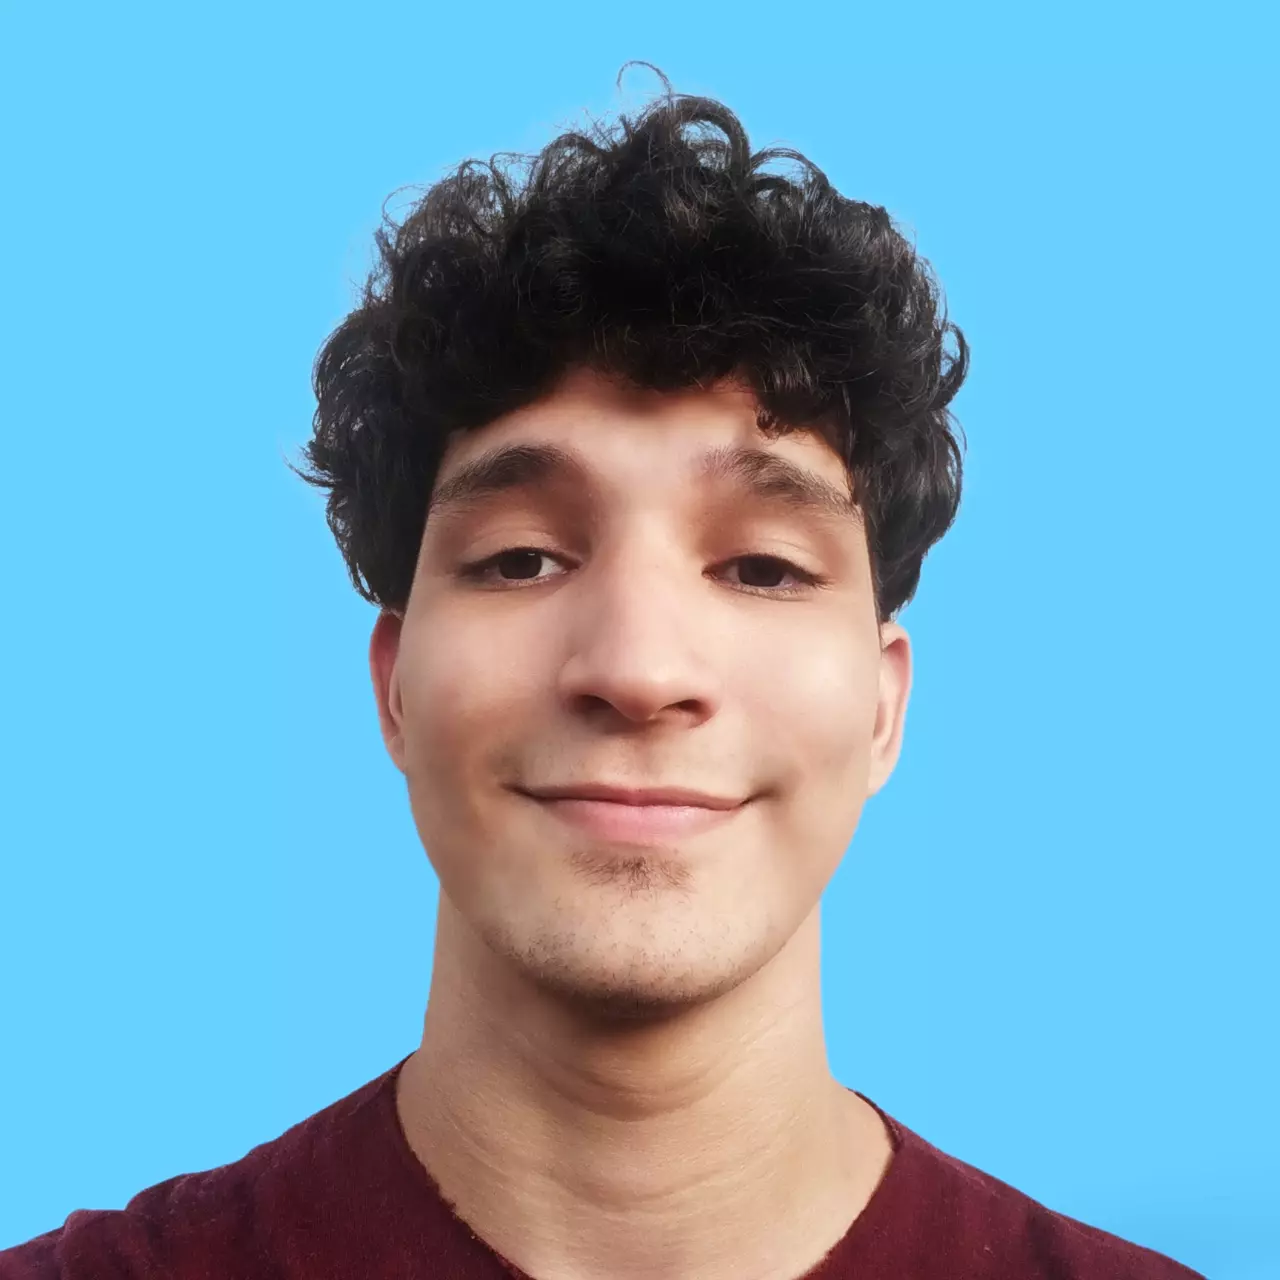
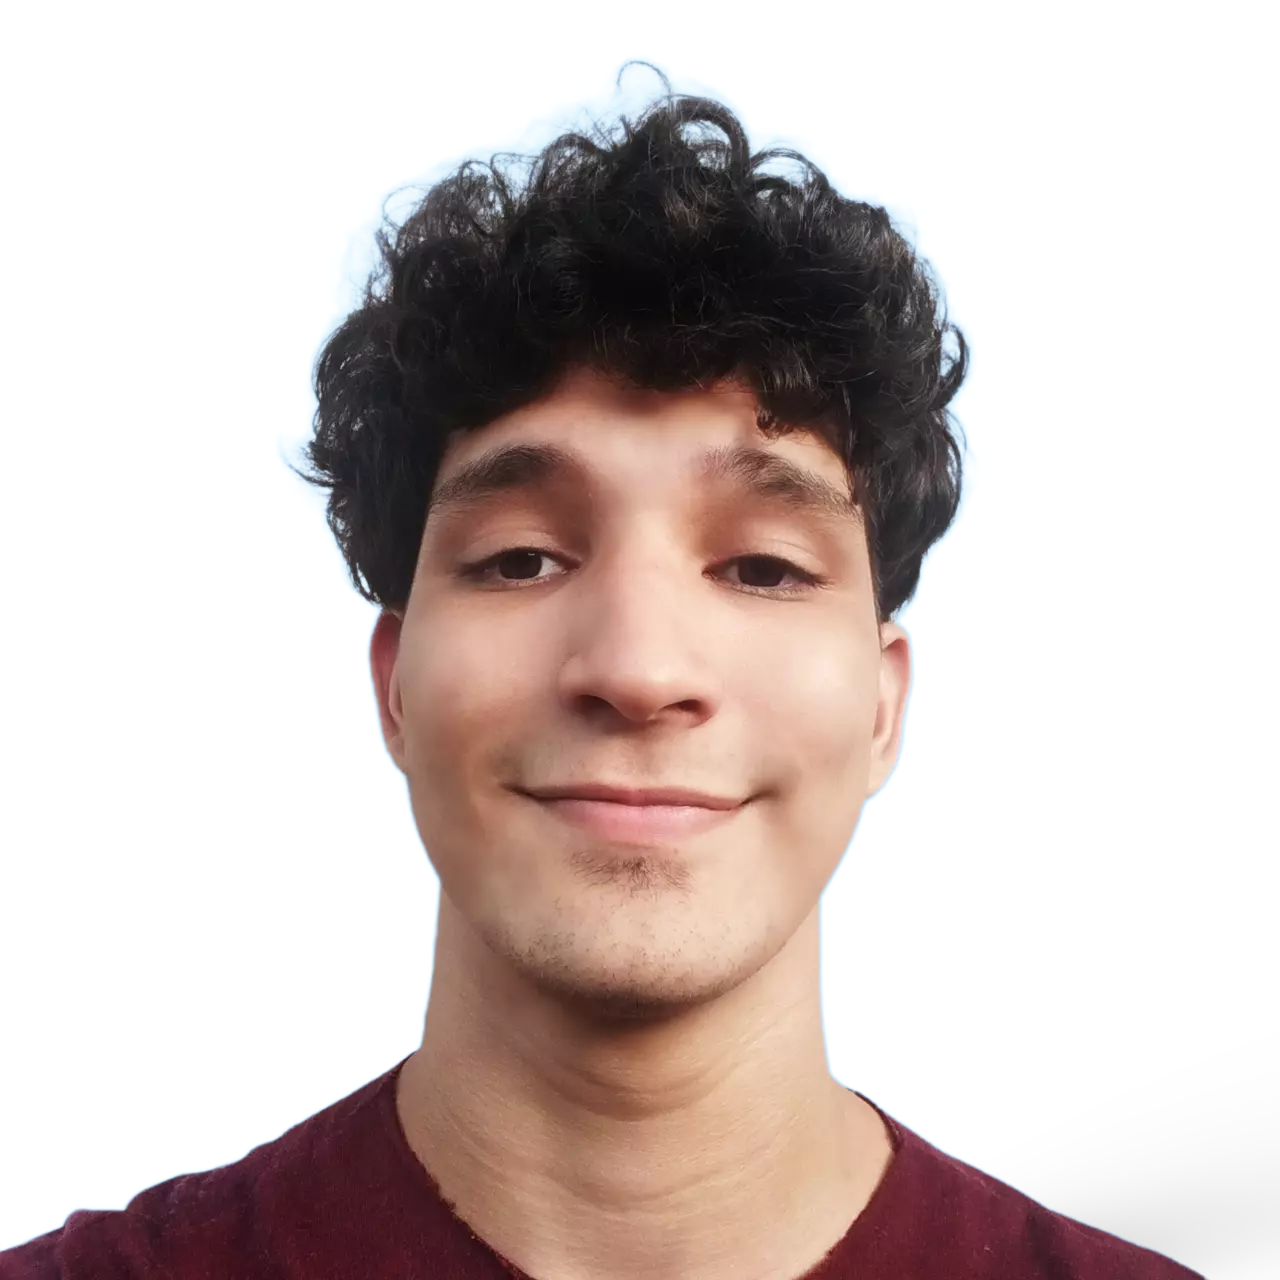
feat: improving about me section image and skills section styles

diff --git a/src/sections/Skills/index.tsx b/src/sections/Skills/index.tsx
@@ -24,11 +24,11 @@ const Skills = () => {
   const translate = translations[lang];
 
   return (
-    <div id="skills" className="pt-24 text-center">
+    <section id="skills" className="pt-24 text-center section px-0">
       <h1 className={`section-title mb-12 ${notoSans.className}`}>
         {translate.title}
       </h1>
-      <div className="flex flex-wrap justify-center gap-3 px-4">
+      <div className="flex flex-wrap justify-center gap-3">
         {notSkills ? (<p className="text-red-400">{translate.emptySkillsMsg}</p>) : skillData.map(
             (icon) =>
               !icon.hidden && (
@@ -44,7 +44,7 @@ const Skills = () => {
                     placeholder="empty"
                     height={50}
                     width={50}
-                    className="h-2/5 w-auto "
+                    className="h-2/5 w-auto"
                     src={icon.src}
                     alt="icon"
                   />
@@ -57,7 +57,7 @@ const Skills = () => {
               )
           )}
       </div>
-    </div>
+    </section>
   );
 };
 

diff --git a/src/sections/AboutMe/index.tsx b/src/sections/AboutMe/index.tsx
@@ -71,9 +71,10 @@ const AboutMe = () => {
               max-md:max-w-[300px]
               h-auto
               w-full
+              duration-200
             "
             style={{
-              boxShadow: "3px 3px 2px " + themeColor,
+              backgroundColor: themeColor,
             }}
             width={300}
             src={Me}
